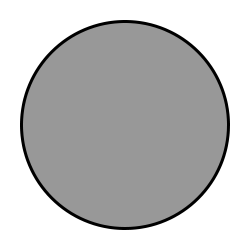
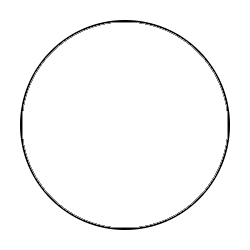
changed default atom sprite color and active recipe now shows

diff --git a/Assets/Scripts/Controllers/RecipeUIController.cs b/Assets/Scripts/Controllers/RecipeUIController.cs
@@ -2,29 +2,55 @@
 using System.Collections.Generic;
 using UnityEngine;
 using Propolis;
-
+using System.Linq;
 public class RecipeUIController : MonoBehaviour {
 
+    public int recipeID = 0;
+    private CanvasRenderer material;
+
+    // Use this for initialization
+    void Start () {
+        material = GetComponent<CanvasRenderer>();
+        StartCoroutine(UpdateRecipeUI());
+    }
 
 
-	// Use this for initialization
-	void Start () {
-		
-	}
+    IEnumerator UpdateRecipeUI()
+    {
+        while(true)
+        {
+            if (PropolisData.Instance.RecipeStack != null)
+            {
+                if (PropolisData.Instance.RecipeStack.Count == 3&& recipeID >=0 && recipeID <=2)
+                {
+                    int recipeElement = PropolisData.Instance.RecipeStack.ToArray()[1].GetItem(recipeID);
+
+                    switch ((PropolisStatus)recipeElement)
+                    {
+                        case PropolisStatus.RECIPE1: material.SetColor(PropolisColors.Blue); break;
+                        case PropolisStatus.RECIPE2: material.SetColor(PropolisColors.Red); break;
+                        case PropolisStatus.RECIPE3: material.SetColor(PropolisColors.Yellow); break;
+                    }
+                }
+            }
+
+            yield return new WaitForSeconds(0.7f);
+        }
+    }
+    
 
     private void OnGUI()
     {
-        if(PropolisData.Instance.LastEvent.Action == PropolisActions.PushRecipe && PropolisData.Instance.RecipeStack !=null)
-        {
-            if(PropolisData.Instance.RecipeStack.Count == 3)
-            {
-
-            }
-        }
+       
     }
-	
-	// Update is called once per frame
-	void Update () {
+
+    private void OnDestroy()
+    {
+        StopCoroutine(UpdateRecipeUI());
+    }
+
+    // Update is called once per frame
+    void Update () {
 		
 	}
 }

diff --git a/Assets/Scripts/Models/PropolisData.cs b/Assets/Scripts/Models/PropolisData.cs
@@ -45,8 +45,10 @@ namespace Propolis
                 if (RecipeStack.Count >= 3)
                 {
                     RecipeStack.Dequeue();
-                    RecipeStack.Enqueue(recipe);
+                    
                 }
+
+                RecipeStack.Enqueue(recipe);
             }
             catch (System.Exception)
             {
